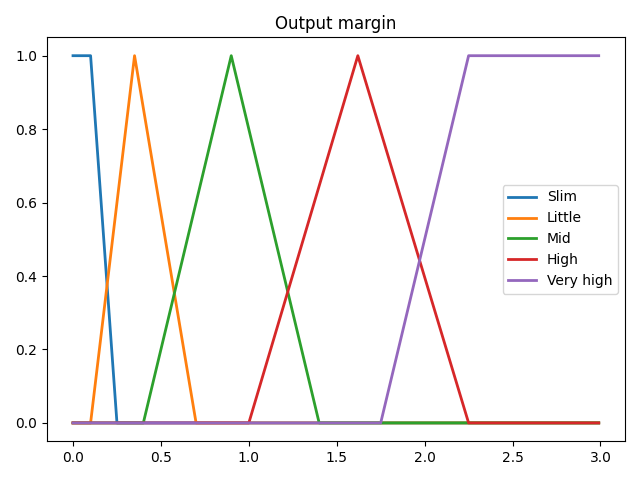
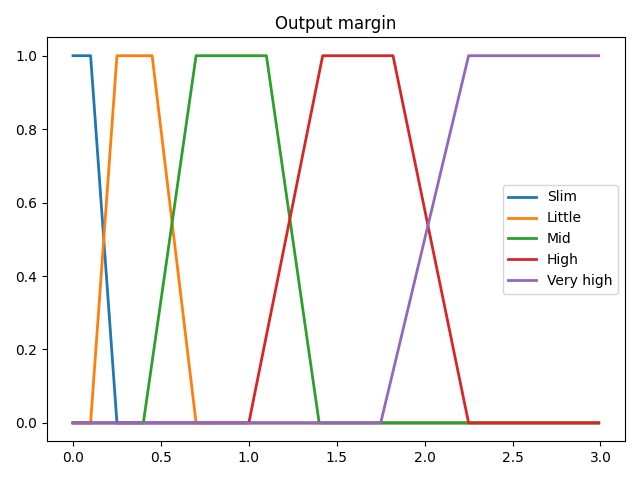
Changed output MFs

diff --git a/src/main.py b/src/main.py
@@ -1,13 +1,13 @@
 from src.fuzzy.InferenceSystem import FuzzyInferenceSystem as Fis
 
 # Inputs--------------------------------------------------------------------------------------------------------------#
-basePrice_usd = 50                      # Base price of the products
-productLifetime_years = 10              # How long has the product bee on the market
-monthlyActive_kUsers = 10               # How many monthly active users use the product
-thirdParty_integrations = 3             # How many third party integrations does the product offer
-enterprise_features = 3                 # How many enterprise features does the product offer
-branding_percent = 25                   # What percentage of revenue is spent on marketing
-targetAudienceMeanIncome_kUsd = 50      # Mean income of the targeted audience
+basePrice_usd = 50                       # Base price of the products
+productLifetime_years = 7                # How long has the product bee on the market
+monthlyActive_kUsers = 75                # How many monthly active users use the product
+thirdParty_integrations = 3              # How many third party integrations does the product offer
+enterprise_features = 1                  # How many enterprise features does the product offer
+branding_percent = 5                     # What percentage of revenue is spent on marketing
+targetAudienceMeanIncome_kUsd = 110      # Mean income of the targeted audience
 # Inputs--------------------------------------------------------------------------------------------------------------#
 
 # Initialization of the Fuzzy Inference System
@@ -63,9 +63,9 @@ fuzzyInferenceSystem\
 fuzzyInferenceSystem\
     .add_out_set(name="output_margin", x_min=0, x_max=3, step=0.01)\
     .add_out_subset(name="slim", membership_range=[0, 0, 0.1, 0.25], mf_type="trapezoidal")\
-    .add_out_subset(name="little", membership_range=[0.1, 0.35, 0.7], mf_type="triangular")\
-    .add_out_subset(name="mid", membership_range=[0.4, 0.9, 1.4], mf_type="triangular")\
-    .add_out_subset(name="high", membership_range=[1, 1.62, 2.25], mf_type="triangular")\
+    .add_out_subset(name="little", membership_range=[0.1, 0.25, 0.45, 0.7], mf_type="trapezoidal")\
+    .add_out_subset(name="mid", membership_range=[0.4, 0.7, 1.1, 1.4], mf_type="trapezoidal")\
+    .add_out_subset(name="high", membership_range=[1, 1.42, 1.82, 2.25], mf_type="trapezoidal")\
     .add_out_subset(name="very_high", membership_range=[1.75, 2.25, 3, 3], mf_type="trapezoidal")
 
 # Plot the sets
@@ -108,6 +108,7 @@ rule_list = [
     ["Rule#31", "slim",         ["monthly_active_users.low", "third_party_integrations.low", "enterprise_features.low", "branding.budget", "target_audience_mean_income.low"]],
     ["Rule#32", "high",         ["third_party_integrations.low", "enterprise_features.low", "branding.premium", "target_audience_mean_income.high"]],
 ]
+
 # All the rules are inserted into the FIS
 for rule_item in rule_list:
     fuzzyInferenceSystem.add_rule(name=rule_item[0], out_subset=rule_item[1], rules_list=rule_item[2])
@@ -120,6 +121,6 @@ for rule_item in rule_list:
 outputValue_crisp = fuzzyInferenceSystem.defuzzify(defuzzification_method='centroid')
 
 # Print out the results
-print(f"Base Price: ${basePrice_usd}/month")
+print(f"Base Price: ${basePrice_usd}")
 print(f"Profit margin: %{outputValue_crisp * 100}")
-print(f"Suggested Price: ${(basePrice_usd + (basePrice_usd * outputValue_crisp)):.2f}/month")
+print(f"Suggested Price: ${(basePrice_usd + (basePrice_usd * outputValue_crisp)):.2f}")

diff --git a/src/fuzzy/Set.py b/src/fuzzy/Set.py
@@ -19,7 +19,7 @@ class FuzzySet:
 
     def plot(self):
         # comment line below to plot MF
-        return self
+        # return self
 
         plots_dir_path = os.path.abspath("../plots")
         fig, ax0 = plt.subplots()
